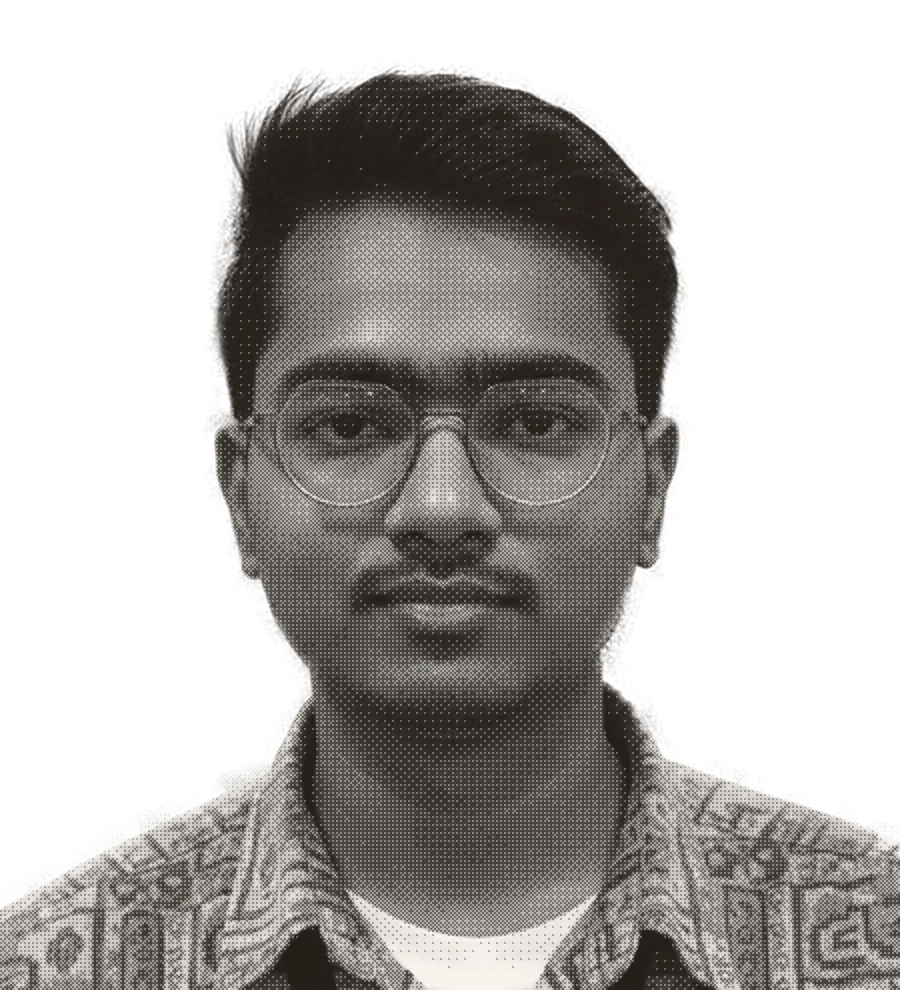
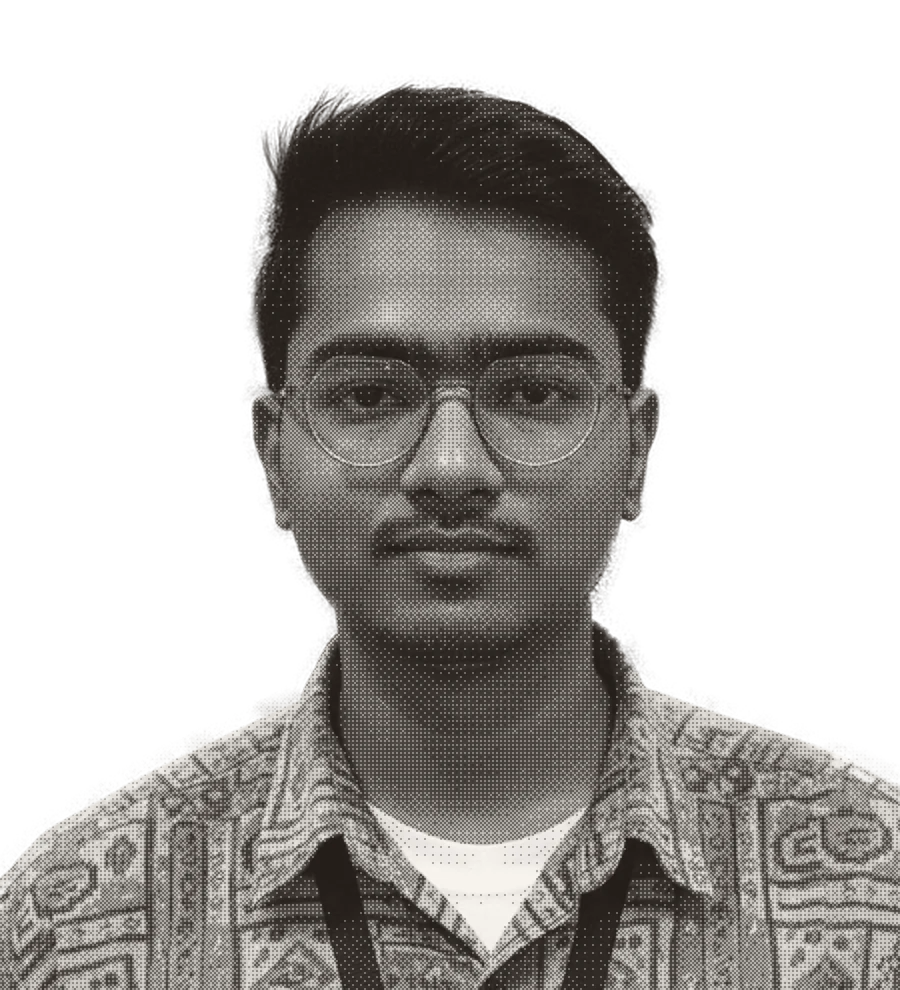
update: consistent team portrait framing, archive original team photos

diff --git a/data/team.ts b/data/team.ts
@@ -29,7 +29,7 @@ export const TEAM: TeamTier[] = [
       {
         name: "Arindam Majumder",
         role: "Co-founder & Content Lead",
-        portrait: "/assets/team/arindam-majumder.webp?v=9",
+        portrait: "/assets/team/arindam-majumder.webp?v=10",
         links: {
           x: "https://dub.sh/arindam-x",
           linkedin: "https://dub.sh/arindam-linkedin",
@@ -39,7 +39,7 @@ export const TEAM: TeamTier[] = [
       {
         name: "Amitesh Anand",
         role: "Co-founder & Operations Lead",
-        portrait: "/assets/team/amitesh-anand.webp?v=9",
+        portrait: "/assets/team/amitesh-anand.webp?v=10",
         links: {
           x: "https://x.com/astrodevil_",
           linkedin: "https://www.linkedin.com/in/amitesh1208/",
@@ -55,7 +55,7 @@ export const TEAM: TeamTier[] = [
       {
         name: "Shivay Lamba",
         role: "Founding Team",
-        portrait: "/assets/team/shivay-lamba.webp?v=9",
+        portrait: "/assets/team/shivay-lamba.webp?v=10",
         links: {
           x: "https://x.com/HowDevelop",
           linkedin: "https://in.linkedin.com/in/shivaylamba",
@@ -83,17 +83,17 @@ export const TEAM: TeamTier[] = [
       {
         name: "Kathank Raithatha",
         role: "Developer Advocate",
-        portrait: "/assets/team/kathank-raithatha.webp?v=9",
+        portrait: "/assets/team/kathank-raithatha.webp?v=10",
       },
       {
         name: "Bhavya Bhardwaj",
         role: "Social Media",
-        portrait: "/assets/team/bhavya-bhardwaj.webp?v=2",
+        portrait: "/assets/team/bhavya-bhardwaj.webp?v=10",
       },
       {
         name: "Souradeep Pradhan",
         role: "Developer",
-        portrait: "/assets/team/souradeep-pradhan.webp?v=9",
+        portrait: "/assets/team/souradeep-pradhan.webp?v=10",
       },
       { role: "Technical Writer", open: true },
       { role: "Video Producer", open: true },

diff --git a/components/about-us/team.tsx b/components/about-us/team.tsx
@@ -57,9 +57,9 @@ const socials = (member: Member) => [
 
 /* Pixel-dithered portraits, ink dots on a transparent ground. */
 const DITHER: Record<string, string> = {
-  "Arindam Majumder": "/assets/team/arindam-majumder.webp?v=9",
-  "Amitesh Anand": "/assets/team/amitesh-anand.webp?v=9",
-  "Shivay Lamba": "/assets/team/shivay-lamba.webp?v=9",
+  "Arindam Majumder": "/assets/team/arindam-majumder.webp?v=10",
+  "Amitesh Anand": "/assets/team/amitesh-anand.webp?v=10",
+  "Shivay Lamba": "/assets/team/shivay-lamba.webp?v=10",
 };
 
 function LeaderCard({ member }: { member: Member }) {
